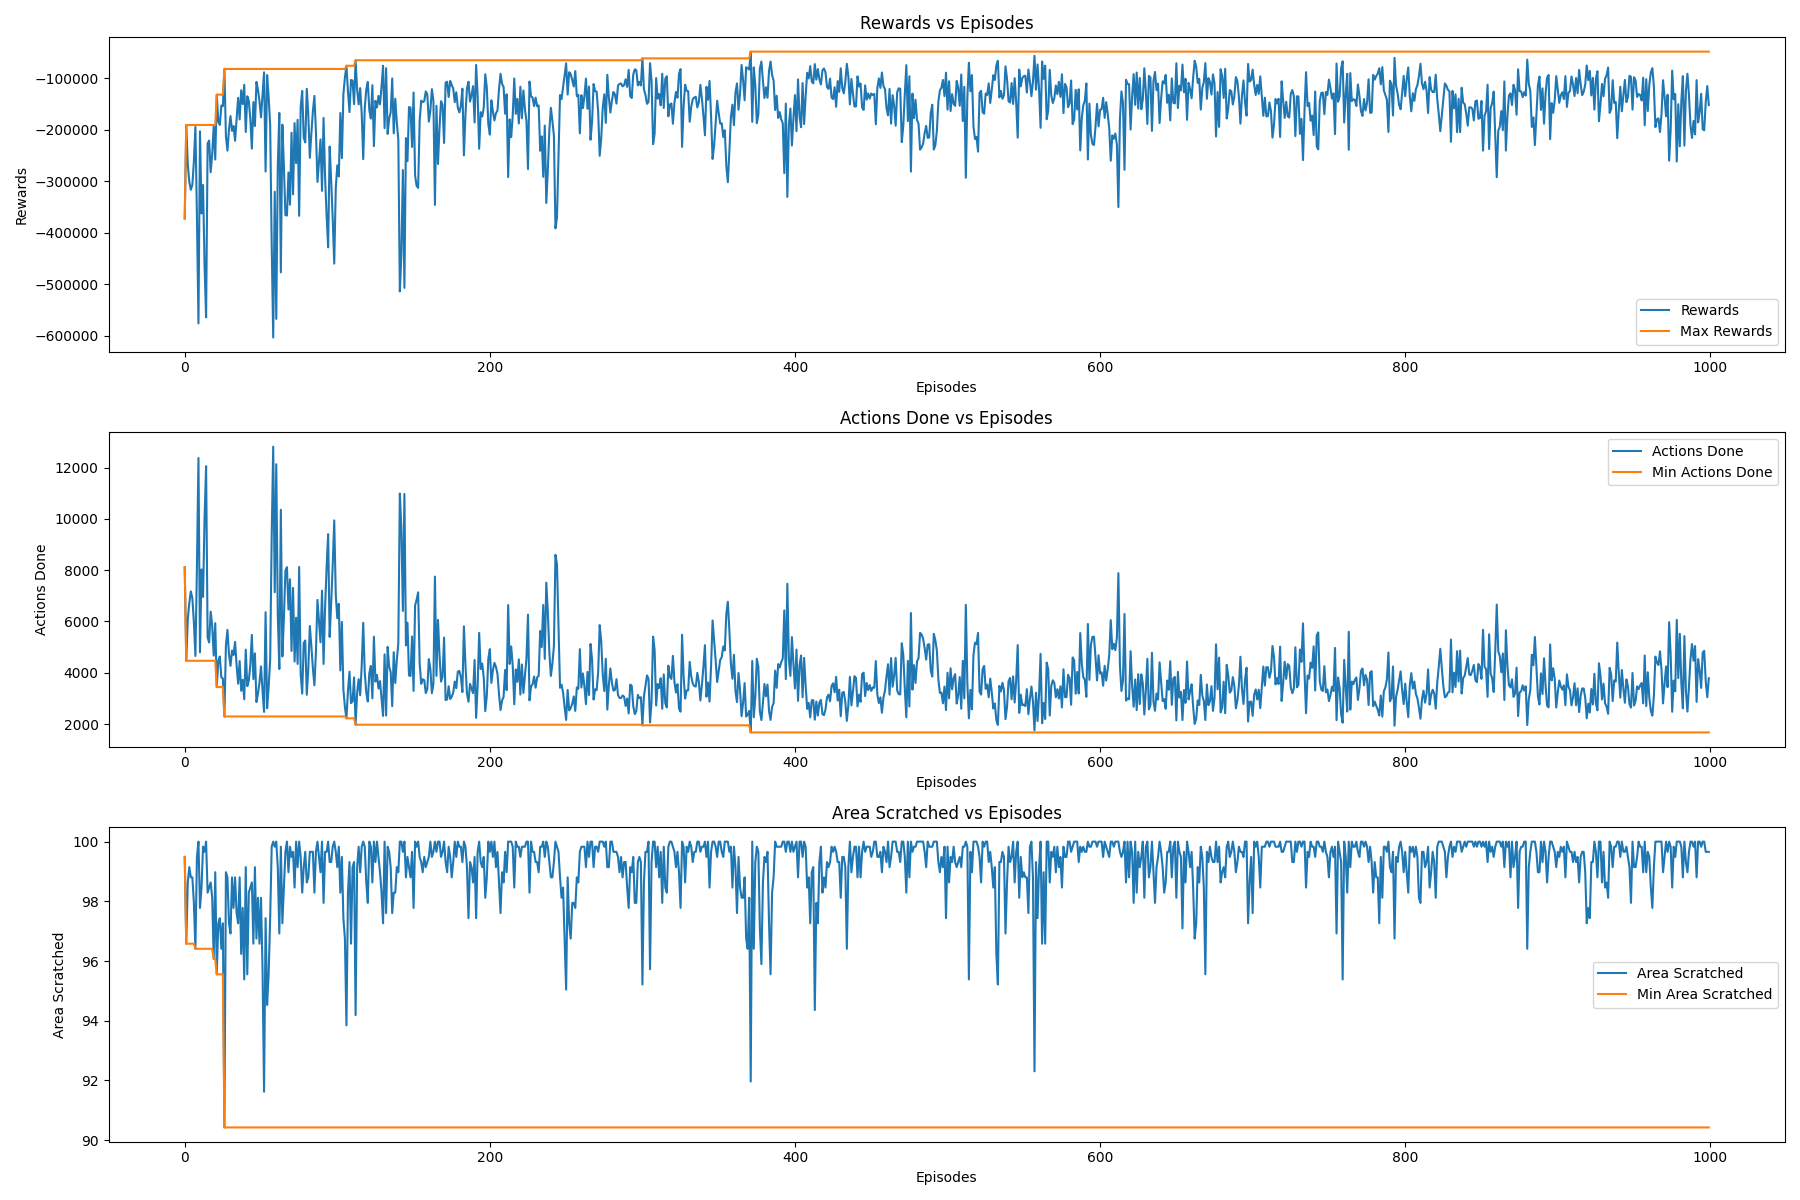
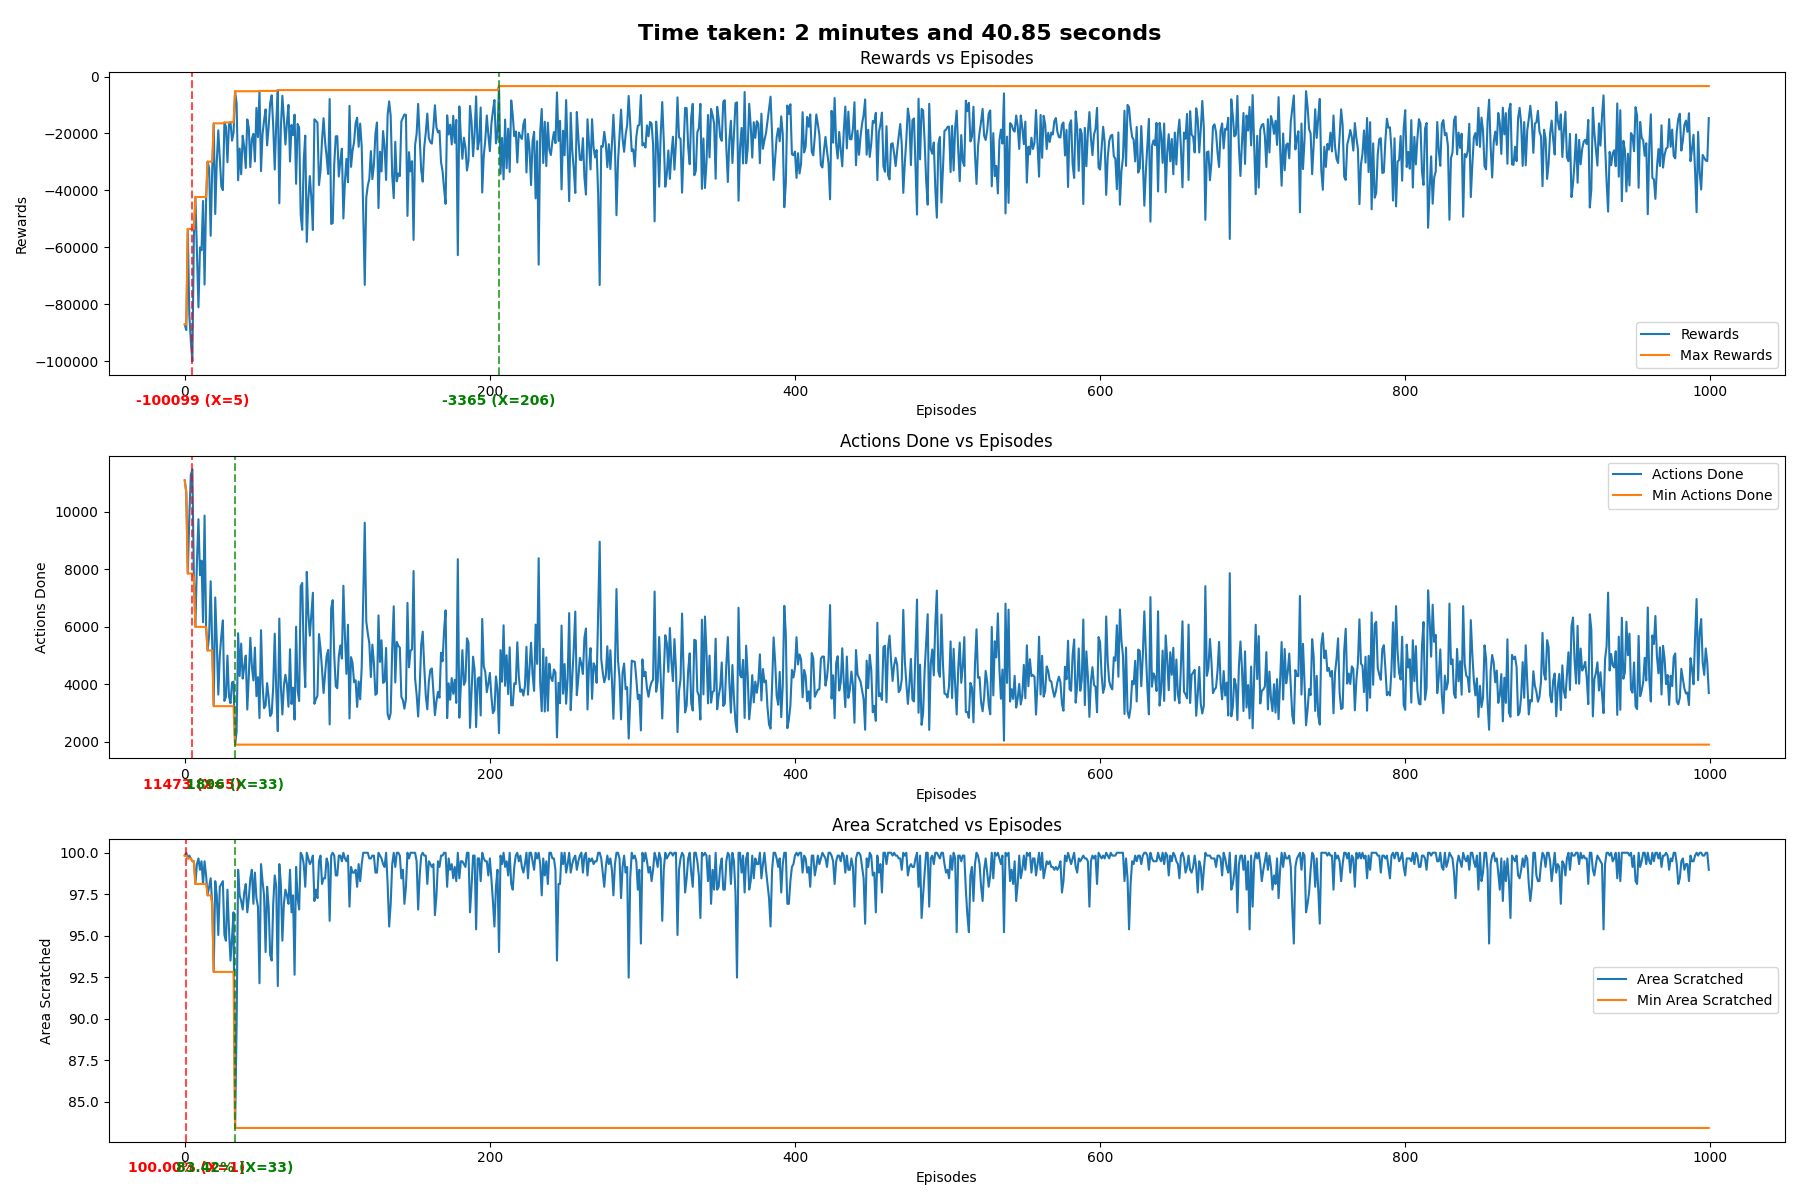
fixed results function

diff --git a/V0_free_actions/mainV0-1-Qtable.py b/V0_free_actions/mainV0-1-Qtable.py
@@ -1,12 +1,23 @@
 import random
 import math
 import time
-import matplotlib.pyplot as plt
 import gc
+import sys
+import os
 import numpy as np
 from PyQt5.QtCore import QTimer
 from PyQt5.QtWidgets import QFrame
+# ------------------------------
+# Get the absolute path of the directory containing this script
+current_dir = os.path.dirname(os.path.abspath(__file__))
 
+# Get the project root directory (go up one level from "V0_free_actions")
+project_root = os.path.abspath(os.path.join(current_dir, '..'))
+
+# Add the project root to sys.path to allow imports
+if project_root not in sys.path:
+    sys.path.append(project_root)
+# ------------------------------
 from environment import Scratch_Game_Environment # V0_free_actions/environment.py
 from utils.functionalities import plot_results
 
@@ -50,14 +61,14 @@ class RL_Agent_01():
 
     def get_reward(self, next_frame: QFrame):
         if next_frame in self.visited_frames:
-            reward = -50  # Penalty for revisiting
+            reward = -10  # Penalty for revisiting
         else:
             self.visited_frames.add(next_frame)
             response = self.game_env.remove_square(next_frame)
             if response: # red frame
                 reward = 100
             else: # blue frame
-                reward = -10
+                reward = -1
         return reward
 
     def update_q_table(self, current_state: int, action: int, reward: int, next_state: int):
@@ -78,8 +89,8 @@ class RL_Agent_01():
 my_env = Scratch_Game_Environment(frame_size=20, scratching_area=(110,98,770,300), num_emojis=3)
 agent = RL_Agent_01(game_env=my_env)
 
-EPISODES = 100
-trace = 10
+EPISODES = 1000
+trace = 100
 rewards = []
 max_rewards = []
 actions_done = []
@@ -120,13 +131,14 @@ for i in range(EPISODES):
         current_state = next_state
         done = all(not s for s in agent.game_env.emoji_frame_track.values())
 
+    episode_percentage = (agent.game_env.scratched_count / agent.game_env.total_squares) * 100
+
     max_reward = episode_reward if episode_reward > max_reward else max_reward
     min_actions = episode_actions if episode_actions < min_actions else min_actions
-
-    episode_percentage = (agent.game_env.scratched_count / agent.game_env.total_squares) * 100
     min_area_scratched = episode_percentage if episode_percentage < min_area_scratched else min_area_scratched
+
     if i % trace == 0 or i == EPISODES-1:
-        print(f"-----------------EPOCH {i+1}---------------------")
+        print(f"-----------------EPISODE {i+1}---------------------")
         print(f"Actions done: {episode_actions}")
         print(f"Reward: {episode_reward}")
         print(f"Final scratched area: {episode_percentage:.2f}%")
@@ -139,10 +151,10 @@ for i in range(EPISODES):
     
     # ---------------data for graphics----------------
     rewards.append(episode_reward)
-    max_rewards.append(max_reward)
     actions_done.append(episode_actions)
-    min_actions_done.append(min_actions_done)
     areas_scratched.append(episode_percentage)
+    max_rewards.append(max_reward)
+    min_actions_done.append(min_actions)
     min_areas_scratched.append(min_area_scratched)
     # ---------------data for graphics----------------
 
@@ -151,11 +163,11 @@ for i in range(EPISODES):
     agent.game_env.app.exec() # run app
 
 minutes, seconds = divmod(time.time()-start, 60)
-print(f"****Total trining time: {int(minutes)} minutes y {seconds:.2f} seconds****")
+print(f"****Total trining time: {int(minutes)} minutes and {seconds:.2f} seconds****")
 
 """**********************************************************"""
 """**********************************************************"""
 
 plot_results(rewards, actions_done, areas_scratched,
              max_rewards, min_actions_done, min_areas_scratched,
-             EPISODES, f"results/V0_1_Qtable_{EPISODES}.png")
+             f"V0_1_Qtable_{EPISODES}.png", (int(minutes), seconds))

diff --git a/utils/functionalities.py b/utils/functionalities.py
@@ -1,14 +1,24 @@
 import numpy as np
 import matplotlib.pyplot as plt
+import os
+import subprocess
+
+def get_git_root():
+    """Get the root directory of the Git repository"""
+    try:
+        return subprocess.check_output(['git', 'rev-parse', '--show-toplevel'], universal_newlines=True).strip()
+    except subprocess.CalledProcessError:
+        return None  # not a Git repository
 
 def plot_results(rewards: list, actions_done: list, areas_scratched: list,
                  max_rewards: list, min_actions_done: list, min_areas_scratched: list, 
-                 EPISODES: int, file_name: str):
+                 file_name: str, time_taken: tuple[int, float]):
     """
     Plot the results of the training process. Includes 3 graphics: Rewards, Actions Done and Area Scratched.
     
     Each graphic highlights the best and worst values obtained during the training process according to the metric.
     """
+        
     plt.figure(figsize=(18, 12))
 
     # --- Graphic 1: Rewards ---
@@ -27,7 +37,7 @@ def plot_results(rewards: list, actions_done: list, areas_scratched: list,
             f'{max_rewards[max_reward_idx]} (X={max_reward_idx})', 
             color='green', fontsize=10, fontweight='bold', ha='center')
     plt.text(min_reward_idx, plt.ylim()[0] - (plt.ylim()[1] - plt.ylim()[0]) * 0.1, 
-            f'{max_rewards[min_reward_idx]} (X={min_reward_idx})', 
+            f'{rewards[min_reward_idx]} (X={min_reward_idx})', 
             color='red', fontsize=10, fontweight='bold', ha='center')
     plt.xlabel('Episodes')
     plt.ylabel('Rewards')
@@ -47,7 +57,7 @@ def plot_results(rewards: list, actions_done: list, areas_scratched: list,
 
     # optimal values
     plt.text(max_actions_idx, plt.ylim()[0] - (plt.ylim()[1] - plt.ylim()[0]) * 0.1, 
-            f'{min_actions_done[max_actions_idx]} (X={max_actions_idx})', 
+            f'{actions_done[max_actions_idx]} (X={max_actions_idx})', 
             color='red', fontsize=10, fontweight='bold', ha='center')
     plt.text(min_actions_idx, plt.ylim()[0] - (plt.ylim()[1] - plt.ylim()[0]) * 0.1, 
             f'{min_actions_done[min_actions_idx]} (X={min_actions_idx})', 
@@ -70,7 +80,7 @@ def plot_results(rewards: list, actions_done: list, areas_scratched: list,
 
     # optimal values
     plt.text(max_area_idx, plt.ylim()[0] - (plt.ylim()[1] - plt.ylim()[0]) * 0.1, 
-            f'{min_areas_scratched[max_area_idx]:.2f}% (X={max_area_idx})', 
+            f'{areas_scratched[max_area_idx]:.2f}% (X={max_area_idx})', 
             color='red', fontsize=10, fontweight='bold', ha='center')
     plt.text(min_area_idx, plt.ylim()[0] - (plt.ylim()[1] - plt.ylim()[0]) * 0.1, 
             f'{min_areas_scratched[min_area_idx]:.2f}% (X={min_area_idx})', 
@@ -80,6 +90,11 @@ def plot_results(rewards: list, actions_done: list, areas_scratched: list,
     plt.title('Area Scratched vs Episodes')
     plt.legend()
 
+    minutes, seconds = time_taken
+    plt.suptitle(f"Time taken: {minutes} minutes and {seconds:.2f} seconds", fontsize=16, ha='center', fontweight='bold')
+        # plt.suptitle(f"Time taken: {minutes} minutes and {seconds:.2f} seconds", fontsize=16, ha='center', fontweight='bold')
     plt.tight_layout()
-    plt.savefig(file_name) # in folder results
+    root_dir = get_git_root() or os.getcwd()  # if not a repo, use current directory
+    results_dir = os.path.join(root_dir, "results")
+    plt.savefig(os.path.join(results_dir, file_name)) # always in folder results
     plt.close()
